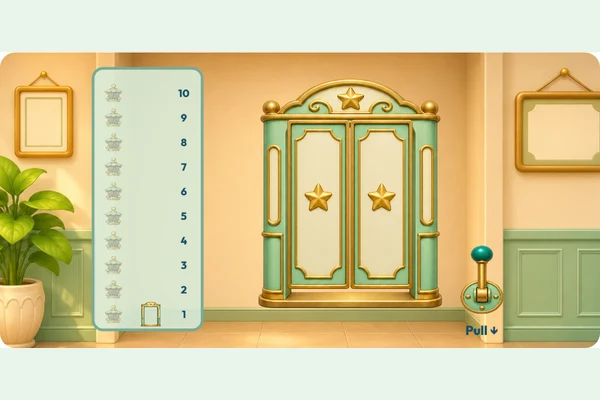
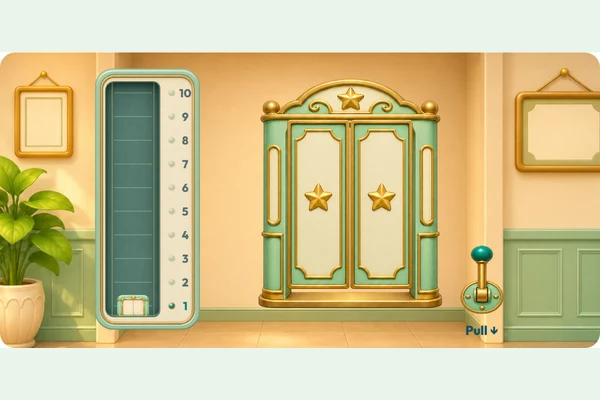
Replace lift floor map with dedicated panel and closed car artwork

Changed region(s): [[0.15, 0.15, 0.36, 0.84]]

diff --git a/shared/unit4-numbers.js b/shared/unit4-numbers.js
@@ -59,7 +59,7 @@ class Belt extends Arcade{
  add(){if(this.fallback){if(this.task.add())this.changed();return}const item=this.items?.find(i=>i.available&&i.type==='jug');if(item)this.take(item);else this.status('A jug is coming. Watch the belt. Pause if you need.')}
 }
 class PixiBase extends Base{
- async pixi(){await load('pixi');if(this.dead)return;this.textures={};for(const name of ['cabin','door','lever','lantern','lamp-off','glow','ten-slot','repair-slot','indicator'])this.textures[name]=await PIXI.Assets.load((name==='glow'?A:B)+name+'.png');if(this.kind==='repair')this.textures['warm-halo']=await PIXI.Assets.load(A+'vfx/warm-halo.png');this.portraits={};if(this.kind==='lift')for(const w of people)this.portraits[w]=await PIXI.Assets.load('assets/family-treehouse-talk/portraits/'+w+'.png');if(this.dead)return;this.app=new PIXI.Application();await this.app.init({width:1000,height:650,backgroundAlpha:0,antialias:true,resolution:Math.min(devicePixelRatio||1,2),autoDensity:true,sharedTicker:false});if(this.dead){this.app.destroy(true);return}this.q('.u4n-render').append(this.app.canvas);this.pixiWorld=new PIXI.Container();this.app.stage.addChild(this.pixiWorld);this.createPixi();this.ro=new ResizeObserver(()=>this.layout());this.ro.observe(this.q('.u4n-world'));this.layout()}
+ async pixi(){await load('pixi');if(this.dead)return;this.textures={};for(const name of ['cabin','door','lever','lantern','lamp-off','glow','ten-slot','repair-slot','indicator'])this.textures[name]=await PIXI.Assets.load((name==='glow'?A:B)+name+'.png');if(this.kind==='repair')this.textures['warm-halo']=await PIXI.Assets.load(A+'vfx/warm-halo.png');if(this.kind==='lift')for(const name of ['floor-panel','lift-car','floor-pip'])this.textures[name]=await PIXI.Assets.load(A+'lift-map/'+name+'.png');this.portraits={};if(this.kind==='lift')for(const w of people)this.portraits[w]=await PIXI.Assets.load('assets/family-treehouse-talk/portraits/'+w+'.png');if(this.dead)return;this.app=new PIXI.Application();await this.app.init({width:1000,height:650,backgroundAlpha:0,antialias:true,resolution:Math.min(devicePixelRatio||1,2),autoDensity:true,sharedTicker:false});if(this.dead){this.app.destroy(true);return}this.q('.u4n-render').append(this.app.canvas);this.pixiWorld=new PIXI.Container();this.app.stage.addChild(this.pixiWorld);this.createPixi();this.ro=new ResizeObserver(()=>this.layout());this.ro.observe(this.q('.u4n-world'));this.layout()}
  sprite(name,x,y,w,h=w){const s=new PIXI.Sprite(this.textures[name]);s.anchor.set(.5);s.position.set(x,y);s.width=w;s.height=h;this.pixiWorld.addChild(s);return s}
  text(t,x,y,size=26){const n=new PIXI.Text({text:t,style:{fontFamily:'App Outfit',fontWeight:'800',fontSize:size,fill:0x174d65,align:'center'}});n.anchor.set(.5);n.position.set(x,y);this.pixiWorld.addChild(n);return n}
  layout(){if(this.dead||!this.app?.renderer)return;const r=this.q('.u4n-world').getBoundingClientRect(),scale=Math.min(r.width/1000,r.height/650);this.app.renderer.resize(r.width,r.height);if(this.kind==='lift'&&this.root.dataset.doors==='open'&&r.width<650){const focus=Math.min(r.width/480,r.height/560);this.pixiWorld.scale.set(focus);this.pixiWorld.position.set(r.width/2-610*focus,r.height/2-310*focus)}else{this.pixiWorld.scale.set(scale);this.pixiWorld.position.set((r.width-1000*scale)/2,(r.height-650*scale)/2)}}
@@ -79,13 +79,14 @@ class Repair extends PixiBase{
  dispose(){this.lighting?.dispose();super.dispose()}
 }
 class Lift extends PixiBase{
- createPixi(){const shaft=new PIXI.Graphics().roundRect(45,35,240,575,22).fill({color:0xd9ebd8,alpha:.9}).stroke({color:0x79aa97,width:6});this.pixiWorld.addChild(shaft);this.floorLights=[];for(let n=1;n<=10;n++){const y=this.floorY(n);const l=this.sprite('indicator',90,y,40);l.alpha=.35;this.floorLights.push(l);this.text(String(n),245,y,23)}this.smallCabin=this.sprite('cabin',172,this.floorY(1),44,55);this.sprite('cabin',610,310,405,505);this.portrait=new PIXI.Sprite(this.portraits.mum);this.portrait.anchor.set(.5);this.portrait.position.set(610,318);this.portrait.scale.set(Math.min(270/this.portrait.texture.width,300/this.portrait.texture.height));this.pixiWorld.addChild(this.portrait);this.doorBox=new PIXI.Container();this.pixiWorld.addChild(this.doorBox);this.doors=[-1,1].map(side=>{const s=new PIXI.Sprite(this.textures.door);s.anchor.set(.5);s.width=139;s.height=374;s.position.set(610+side*69.5,333);this.doorBox.addChild(s);return s});const mask=new PIXI.Graphics().rect(471,146,278,374).fill(0xffffff);this.pixiWorld.addChild(mask);this.doorBox.mask=mask;this.handle=this.sprite('lever',900,500,150);this.handle.eventMode='static';this.handle.cursor='pointer';this.handle.on('pointerdown',e=>{if(this.phase!=='ready'||this.paused)return;this.pullY=e.global.y;this.handle.on('globalpointermove',this.pullMove)});this.pullMove=e=>{if(this.pullY!==null&&e.global.y-this.pullY>25){this.pullY=null;this.handle.off('globalpointermove',this.pullMove);this.travel()}};this.handle.on('pointerup',()=>{this.pullY=null;this.handle.off('globalpointermove',this.pullMove)});this.handle.on('pointerupoutside',()=>{this.pullY=null;this.handle.off('globalpointermove',this.pullMove)});this.text('Pull ↓',900,610,28)}
- floorY(n){return 575-(n-1)*54}
- setupRound(){this.floor=1;this.floorLights?.forEach(l=>l.alpha=.35);this.selectedFloor=null;this.family=mix(people.filter(w=>w!==this.lastFamily))[0];this.lastFamily=this.family;this.q('.u4n-special').innerHTML='<div class="u4n-floors" aria-label="Floor panel">'+Array.from({length:10},(_,i)=>`<button data-floor="${i+1}">${this.round===1?W[i+1]:i+1}${this.round===0?'<small>'+W[i+1]+'</small>':''}</button>`).join('')+'</div><button data-n="add">Go to selected floor</button><section class="u4n-family-panel" hidden><h3>Who’s this?</h3><div></div></section>';this.q('[data-n=count]').hidden=true;this.q('[data-n=check]').hidden=true;this.root.dataset.doors='closed';this.root.dataset.floor='1';this.root.dataset.arrived='false';this.layout?.();this.root.dataset.family=this.family;if(this.portrait){this.portrait.texture=this.portraits[this.family];this.portrait.scale.set(Math.min(270/this.portrait.texture.width,300/this.portrait.texture.height));this.portrait.visible=false;this.smallCabin.y=this.floorY(1);this.doors.forEach((d,i)=>d.x=610+(i?69.5:-69.5));this.floorLights.forEach(l=>l.texture=this.textures['lamp-off'])}}
+ createPixi(){this.sprite('floor-panel',165,322.5,240,575);const rails=new PIXI.Graphics().moveTo(87,66).lineTo(87,578).moveTo(179,66).lineTo(179,578).stroke({color:0xd9b871,width:2,alpha:.45});this.pixiWorld.addChild(rails);this.floorLights=[];this.floorLabels=[];for(let n=1;n<=10;n++){const y=this.floorY(n),tick=new PIXI.Graphics().moveTo(91,y).lineTo(175,y).stroke({color:0xd1dfcc,width:1.5,alpha:.38});this.pixiWorld.addChild(tick);this.floorLights.push(this.sprite('floor-pip',218,y,17));this.floorLabels.push(this.text(String(n),248,y,25))}this.smallCabin=this.sprite('lift-car',133,this.floorY(1),90,48);this.syncFloor(1);this.sprite('cabin',610,310,405,505);this.portrait=new PIXI.Sprite(this.portraits.mum);this.portrait.anchor.set(.5);this.portrait.position.set(610,318);this.portrait.scale.set(Math.min(270/this.portrait.texture.width,300/this.portrait.texture.height));this.pixiWorld.addChild(this.portrait);this.doorBox=new PIXI.Container();this.pixiWorld.addChild(this.doorBox);this.doors=[-1,1].map(side=>{const s=new PIXI.Sprite(this.textures.door);s.anchor.set(.5);s.width=139;s.height=374;s.position.set(610+side*69.5,333);this.doorBox.addChild(s);return s});const mask=new PIXI.Graphics().rect(471,146,278,374).fill(0xffffff);this.pixiWorld.addChild(mask);this.doorBox.mask=mask;this.handle=this.sprite('lever',900,500,150);this.handle.eventMode='static';this.handle.cursor='pointer';this.handle.on('pointerdown',e=>{if(this.phase!=='ready'||this.paused)return;this.pullY=e.global.y;this.handle.on('globalpointermove',this.pullMove)});this.pullMove=e=>{if(this.pullY!==null&&e.global.y-this.pullY>25){this.pullY=null;this.handle.off('globalpointermove',this.pullMove);this.travel()}};this.handle.on('pointerup',()=>{this.pullY=null;this.handle.off('globalpointermove',this.pullMove)});this.handle.on('pointerupoutside',()=>{this.pullY=null;this.handle.off('globalpointermove',this.pullMove)});this.text('Pull ↓',900,610,28)}
+ syncFloor(n){this.floorLights?.forEach((l,i)=>l.alpha=i+1===n?1:.28);this.floorLabels?.forEach((l,i)=>l.style.fill=i+1===n?0x0b7d72:0x526c69)}
+ floorY(n){return 557-(n-1)*52}
+ setupRound(){this.floor=1;this.syncFloor(1);this.selectedFloor=null;this.family=mix(people.filter(w=>w!==this.lastFamily))[0];this.lastFamily=this.family;this.q('.u4n-special').innerHTML='<div class="u4n-floors" aria-label="Floor panel">'+Array.from({length:10},(_,i)=>`<button data-floor="${i+1}">${this.round===1?W[i+1]:i+1}${this.round===0?'<small>'+W[i+1]+'</small>':''}</button>`).join('')+'</div><button data-n="add">Go to selected floor</button><section class="u4n-family-panel" hidden><h3>Who’s this?</h3><div></div></section>';this.q('[data-n=count]').hidden=true;this.q('[data-n=check]').hidden=true;this.root.dataset.doors='closed';this.root.dataset.floor='1';this.root.dataset.arrived='false';this.layout?.();this.root.dataset.family=this.family;if(this.portrait){this.portrait.texture=this.portraits[this.family];this.portrait.scale.set(Math.min(270/this.portrait.texture.width,300/this.portrait.texture.height));this.portrait.visible=false;this.smallCabin.y=this.floorY(1);this.doors.forEach((d,i)=>d.x=610+(i?69.5:-69.5))}}
  readyText(){return 'Choose the floor you heard. Pull the handle or choose Go.'}
  selectFloor(n){this.selectedFloor=n;this.all('[data-floor]').forEach(b=>b.setAttribute('aria-pressed',String(+b.dataset.floor===n)));this.state(this.phase);this.status('Floor selected. Pull the handle or choose Go.')}
  add(){this.travel()}
- async travel(){if(this.phase!=='ready'||this.paused)return;if(!this.selectedFloor){this.status('Choose a floor first.');return}const dest=this.selectedFloor;this.state('moving');this.status('The lift is travelling. Watch the floor lights.');this.root.dataset.doors='closed';const start=this.floor,progress={n:start};await this.tween(progress,{n:dest,duration:Math.max(1.2,Math.abs(dest-start)*.22),ease:'power1.inOut',onUpdate:()=>{if(this.dead)return;const n=Math.round(progress.n);this.root.dataset.floor=String(n);if(this.smallCabin)this.smallCabin.y=this.floorY(progress.n);this.floorLights?.forEach((l,i)=>l.alpha=i<n?1:.35)}});if(this.dead)return;this.floor=dest;this.root.dataset.floor=String(dest);if(dest!==this.task.goal){this.fx('retry');this.status(`Floor ${dest}. Listen again and choose the requested floor.`);this.state('comparing');this.play([W[dest],this.goalKey()],()=>this.state('ready'));return}this.root.dataset.arrived='true';if(this.portrait)this.portrait.visible=true;this.state('opening');if(this.doors)await Promise.all(this.doors.map((d,i)=>this.tween(d,{x:610+(i?250:-250),duration:.75,ease:'power2.inOut'})));if(this.dead)return;this.root.dataset.doors='open';if(this.pixiWorld){const from={s:this.pixiWorld.scale.x,x:this.pixiWorld.x,y:this.pixiWorld.y};this.layout();const to={s:this.pixiWorld.scale.x,x:this.pixiWorld.x,y:this.pixiWorld.y};this.pixiWorld.scale.set(from.s);this.pixiWorld.position.set(from.x,from.y);await Promise.all([this.tween(this.pixiWorld.scale,{x:to.s,y:to.s,duration:.45,ease:'power2.out'}),this.tween(this.pixiWorld,{x:to.x,y:to.y,duration:.45,ease:'power2.out'})]);if(this.dead)return}if(this.fallback)this.q('.u4n-world-ui').innerHTML=`<img class="u4n-fallback-person" src="assets/family-treehouse-talk/portraits/${this.family}.png" alt="Family member">`;this.fx('place');this.q('.u4n-family-panel').hidden=false;this.q('.u4n-family-panel h3').innerHTML="<span data-u4-readword=\"Who's\">Who’s</span> <span data-u4-readword=\"this\">this?</span>";this.q('.u4n-family-panel div').innerHTML=mix([this.family,...mix(people.filter(w=>w!==this.family)).slice(0,2)]).map(w=>`<button data-family="${w}">${w}</button>`).join('');this.state('listening');this.status('Who’s this? Listen, then introduce the family member.');this.play(['family:question'],()=>{this.state('question');this.status('Choose the family word, then say the sentence together.')})}
+ async travel(){if(this.phase!=='ready'||this.paused)return;if(!this.selectedFloor){this.status('Choose a floor first.');return}const dest=this.selectedFloor;this.state('moving');this.status('The lift is travelling. Watch the floor lights.');this.root.dataset.doors='closed';const start=this.floor,progress={n:start};await this.tween(progress,{n:dest,duration:Math.max(1.2,Math.abs(dest-start)*.22),ease:'power1.inOut',onUpdate:()=>{if(this.dead)return;const n=Math.round(progress.n);this.root.dataset.floor=String(n);if(this.smallCabin)this.smallCabin.y=this.floorY(progress.n);this.syncFloor(n)}});if(this.dead)return;this.floor=dest;this.root.dataset.floor=String(dest);if(dest!==this.task.goal){this.fx('retry');this.status(`Floor ${dest}. Listen again and choose the requested floor.`);this.state('comparing');this.play([W[dest],this.goalKey()],()=>this.state('ready'));return}this.root.dataset.arrived='true';if(this.portrait)this.portrait.visible=true;this.state('opening');if(this.doors)await Promise.all(this.doors.map((d,i)=>this.tween(d,{x:610+(i?250:-250),duration:.75,ease:'power2.inOut'})));if(this.dead)return;this.root.dataset.doors='open';if(this.pixiWorld){const from={s:this.pixiWorld.scale.x,x:this.pixiWorld.x,y:this.pixiWorld.y};this.layout();const to={s:this.pixiWorld.scale.x,x:this.pixiWorld.x,y:this.pixiWorld.y};this.pixiWorld.scale.set(from.s);this.pixiWorld.position.set(from.x,from.y);await Promise.all([this.tween(this.pixiWorld.scale,{x:to.s,y:to.s,duration:.45,ease:'power2.out'}),this.tween(this.pixiWorld,{x:to.x,y:to.y,duration:.45,ease:'power2.out'})]);if(this.dead)return}if(this.fallback)this.q('.u4n-world-ui').innerHTML=`<img class="u4n-fallback-person" src="assets/family-treehouse-talk/portraits/${this.family}.png" alt="Family member">`;this.fx('place');this.q('.u4n-family-panel').hidden=false;this.q('.u4n-family-panel h3').innerHTML="<span data-u4-readword=\"Who's\">Who’s</span> <span data-u4-readword=\"this\">this?</span>";this.q('.u4n-family-panel div').innerHTML=mix([this.family,...mix(people.filter(w=>w!==this.family)).slice(0,2)]).map(w=>`<button data-family="${w}">${w}</button>`).join('');this.state('listening');this.status('Who’s this? Listen, then introduce the family member.');this.play(['family:question'],()=>{this.state('question');this.status('Choose the family word, then say the sentence together.')})}
  answer(w){if(this.phase!=='question'||this.paused)return;if(w!==this.family){this.fx('retry');this.status('Look at the person. Try another family word.');return}this.state('reading');this.q('.u4n-family-panel h3').innerHTML=['This','is','my',w].map(t=>`<span data-u4-readword="${t}">${t}</span>`).join(' ')+'.';this.status('Listen, then say the sentence together.');this.play(['family:'+w],()=>this.done())}
 }
 function start(kind){current?.dispose();current=new ({firefly:Fireflies,lift:Lift,belt:Belt,repair:Repair}[kind])(kind)}

diff --git a/data/units.js b/data/units.js
@@ -48,7 +48,7 @@
     ],cardImage:'assets/unit4/navigation/lesson1-family-words.webp',selectorLabel:'Family words'},
     2:{title:'This is my ...',status:'available',description:'Explore, build and speak in family games. Practise This is my … and Yes/No answers.',activities:[activity('family-album','u4familyalbum',{title:'My Family Album',coverImage:'assets/family-album/activity.webp',image:'assets/family-album/cover.webp',icon:'book'}),activity('robot-workshop','u4robotworkshop',{title:'Family Robot Workshop',coverImage:'assets/robot-workshop/activity.webp',image:'assets/robot-workshop/concept.webp',icon:'matching'}),activity('family-treehouse-talk','u4familytalk',{title:'Family Treehouse Talk',coverImage:'assets/family-treehouse-talk/background.webp',image:'assets/family-treehouse-talk/background.webp',icon:'speaking'}),activity('family-photo-rescue','u4familyrescue',{title:'Family Show',coverImage:'assets/family-show/stage.png',image:'assets/family-show/stage.png',icon:'matching'}),activity('family-dialogue','u4familydialogue',{title:'Family Dialogue Studio',coverImage:'assets/family-dialogue/room.png',image:'assets/family-dialogue/room.png',icon:'speaking'}),activity('family-sentence-puzzle','u4familypuzzle',{title:'Family Sentence Puzzle',coverImage:'assets/family-sentence-puzzle/activity-cover.webp',image:'assets/family-sentence-puzzle/activity-cover.webp',icon:'matching'})],targetLanguage:['This is my mum.','This is my dad.','This is my brother.','This is my sister.','This is my grandpa.','This is my grandma.'],cardImage:'assets/unit4/navigation/lesson2-family-album.webp',selectorLabel:'Grammar'},
     3:{title:'Sounds and letters: Jj',status:'available',activities:[activity('magic-jug','u4magicjug',{title:'Magic Jug',coverImage:'assets/magic-jug/activity-cover.webp',image:'assets/magic-jug/jug.webp',icon:'listen'}),activity('jelly-letter-trail','u4jellytrail',{title:'Jelly Letter Trail',coverImage:'assets/jj-fine-motor/trail-cover.webp',icon:'play'}),activity('juice-drop-lab','u4juicelab',{title:'Juice Drop Lab',coverImage:'assets/juice-pipe-lab/cover.webp',icon:'play'}),activity('little-juice-artist','u4juiceartist',{title:'Little Juice Artist',coverImage:'assets/jj-fine-motor/artist-cover.webp',icon:'play'}),activity('jelly-jump','u4jellyjump',{title:'Jelly Jump',coverImage:'assets/jj-adventures/jump-cover.webp',icon:'play'}),activity('jj-sound-detective','u4jjsounddetective',{title:'Jj Sound Detective',coverImage:'assets/jj-sound-detective/cover.webp',image:'assets/jj-sound-detective/lens.svg',icon:'listen'}),activity('jj-treasure-rub','u4jjrub',{title:'Jj Treasure Rub',coverImage:'assets/jj-adventures/rub-cover.webp',icon:'play'})],description:'Meet Jj and practise jug and juice.',targetLanguage:['Jj','jug','juice'],cardImage:'assets/unit4/navigation/lesson3-jug-juice.webp',selectorLabel:'Sounds and letters'},
-    4:{title:'Numbers 9–10',status:'available',description:'Count, read and say nine and ten.',activities:[activity('firefly-garden','u4fireflygarden',{title:'Firefly Garden',coverImage:'assets/unit4-numbers/firefly-cover.webp?v=20261110-art2',icon:'play'}),activity('family-number-lift','u4familynumberlift',{title:'Family Number Lift',coverImage:'assets/unit4-numbers/lift-cover.webp?v=20261110-art2',icon:'play'}),activity('jj-delivery-belt','u4jjdeliverybelt',{title:'Jj Delivery Belt',coverImage:'assets/unit4-numbers/belt-cover.webp?v=20261110-art2',icon:'play'}),activity('number-repair-lab','u4numberrepair',{title:'Number Repair Lab',coverImage:'assets/unit4-numbers/repair-cover.webp?v=20261110-art2',icon:'play'})],targetLanguage:['9 · nine','10 · ten'],cardImage:'assets/unit4/navigation/lesson4-nine-ten.webp',selectorLabel:'Numbers'},
+    4:{title:'Numbers 9–10',status:'available',description:'Count, read and say nine and ten.',activities:[activity('firefly-garden','u4fireflygarden',{title:'Firefly Garden',coverImage:'assets/unit4-numbers/firefly-cover.webp?v=20261110-art2',icon:'play'}),activity('family-number-lift','u4familynumberlift',{title:'Family Number Lift',coverImage:'assets/unit4-numbers/lift-cover.webp?v=20261110-liftmap',icon:'play'}),activity('jj-delivery-belt','u4jjdeliverybelt',{title:'Jj Delivery Belt',coverImage:'assets/unit4-numbers/belt-cover.webp?v=20261110-art2',icon:'play'}),activity('number-repair-lab','u4numberrepair',{title:'Number Repair Lab',coverImage:'assets/unit4-numbers/repair-cover.webp?v=20261110-art2',icon:'play'})],targetLanguage:['9 · nine','10 · ten'],cardImage:'assets/unit4/navigation/lesson4-nine-ten.webp',selectorLabel:'Numbers'},
     5:{title:'Sounds and letters: Kk and Ll',description:'Meet Kk and Ll. Practise kangaroo, key, lion and lollipop.',targetLanguage:['Kk','kangaroo','key','Ll','lion','lollipop'],cardImage:'assets/unit4/navigation/lesson5-kk-ll.webp',selectorLabel:'Letters and Sounds'},
     6:{title:'Story: My brother!',description:'Listen, act and retell the family story.',targetLanguage:['My brother!'],cardImage:'assets/unit4/navigation/lesson6-my-brother.webp',selectorLabel:'Story'}
    }).map(lesson=>({...lesson,cardImage:`assets/unit4/navigation-v2/lesson${lesson.id}-card.webp`,background:`assets/unit4/navigation-v2/lesson${lesson.id}-background.webp`,cardAspect:'2 / 1',selectorLabel:lesson.selectorLabel||['Family words','Grammar','Sounds and letters','Numbers','Letters and Sounds','Story'][lesson.id-1]}))}

diff --git a/index.html b/index.html
@@ -1899,8 +1899,8 @@ setSpace(savedSpace,{scroll:false});
 <script src="assets/unit4-numbers/audio/clips.js?v=20261108-numbers1"></script>
 <script src="shared/number-task.js?v=20261108-numbers1"></script>
 <script src="shared/number-lantern-light.js?v=20261110-light1"></script>
-<script src="shared/unit4-numbers.js?v=20261110-light1"></script>
-<script src="data/units.js?v=20261110-art2"></script>
+<script src="shared/unit4-numbers.js?v=20261110-liftmap"></script>
+<script src="data/units.js?v=20261110-liftmap"></script>
 <script src="app/router.js?v=20261005a"></script>
 <script src="app/progress.js?v=20261014-linked2"></script>
 <script src="app/app-shell.js?v=20261029-workshop2"></script>

diff --git a/docs/game-plans/family-number-lift/PLAN.md b/docs/game-plans/family-number-lift/PLAN.md
@@ -27,3 +27,8 @@ User rejected the simple native SVG-style interactive artwork as inconsistent wi
 Full four-round local loops after raster integration PASS for all four games. Current artifact kit contains 16 PNG sprites plus 4 original transparent sheets; hash manifest, source descriptions and crop exporter included. Public verification pending deployment of this revision.
 
 2026-11-10 public gate: runtime efd9672 deployed successfully on GitHub Pages; painted art-v2 CSS confirmed, each of four routes completed one correct round with native engines/audio and Next enabled. No JavaScript errors or failed own-media responses. tests/unit4-numbers-public.cjs PASS. Raster revision complete at this technical gate; physical-device/classroom outcomes remain unmeasured.
+
+## Floor-map asset revision — 2026-11-10
+User rejected lantern floor markers and tiny open doorway. Retain approved Pixi/GSAP stack and big cabin/portraits/audio. Use imagegen for a separate clean mint/brass panel with recessed shaft and an opaque closed lift-car sprite; native compact round status pip, real number labels and rail ticks. Fix setupRound erroneously reassigning floor marker texture to lamp-off. Single active floor follows actual car position; wrong destination stays closed. Preserve routes/progress. Skill imagegen read/applied; production asset/visual/travel/restart/width checks pending.
+
+Local map gate: two original imagegen assets plus native round pip integrated. Actual shaft/car coordinate bounds (floorY1=557, floorY10=89; car height48) fit recessed lane. Single active indicator/label follows actual floor; reset never reassigns lamp-off. Focused moving/wrong/right/family/next test PASS, five widths PASS, no JS errors, actual video sampled/reviewed in tests/lift-map-motion-review.png. Original full four-round Lift loop also passed. Public gate pending.

diff --git a/assets/unit4-numbers/CREDITS.md b/assets/unit4-numbers/CREDITS.md
@@ -3,3 +3,5 @@ Original OpenAI image_gen four environment scenes, prompts/source files in sourc
 2026-11-10 interaction art revision: 16 original OpenAI imagegen PNG sprites now used in live scenes and controls, with four transparent source sheets. See art-v2/README.md, sheets.json and manifest.json for source descriptions, generation filenames and hashes. Native SVG artwork is retained as historical material; radial glow/ring VFX remain native exports. Approved vocabulary/portraits/audio are unchanged.
 
 Continuous lantern lighting: shared/number-lantern-light.js uses Pixi additive layers and pane masks with GSAP ignition. Original native radial VFX source/export and usage in vfx/README.md; approved painted unlit lantern stays unchanged. No new third-party artwork/audio dependency.
+
+Lift-map revision: original OpenAI imagegen panel and closed lift-car cutouts, source files and prompts summarized in lift-map/README.md; original native round pip and extraction/export in tools/build_lift_map_art.cjs. Replaces lantern markers and open mini doorway, preserves big cabin and approved family art/audio.

diff --git a/assets/unit4-numbers/lift-map/README.md b/assets/unit4-numbers/lift-map/README.md
@@ -1,0 +1,1 @@
+Original OpenAI imagegen assets, 2026-11-10. Prompt set: isolated tall mint-enamel/brass floor panel, blank numbers lane at right and recessed shaft at left; separate compact opaque closed cream-door lift car with strong readable silhouette, no open doorway or ornaments. Transparent originals retained as source PNGs, production alpha-trimmed and aspect-preserving exports by tools/build_lift_map_art.cjs. Native round status pip SVG/PNG replaces lantern floor markers. Real App Outfit numbers, rail/ticks and active-floor state are rendered separately; car follows actual floorY. Big cabin, family portraits and Higgs audio remain approved existing assets.
